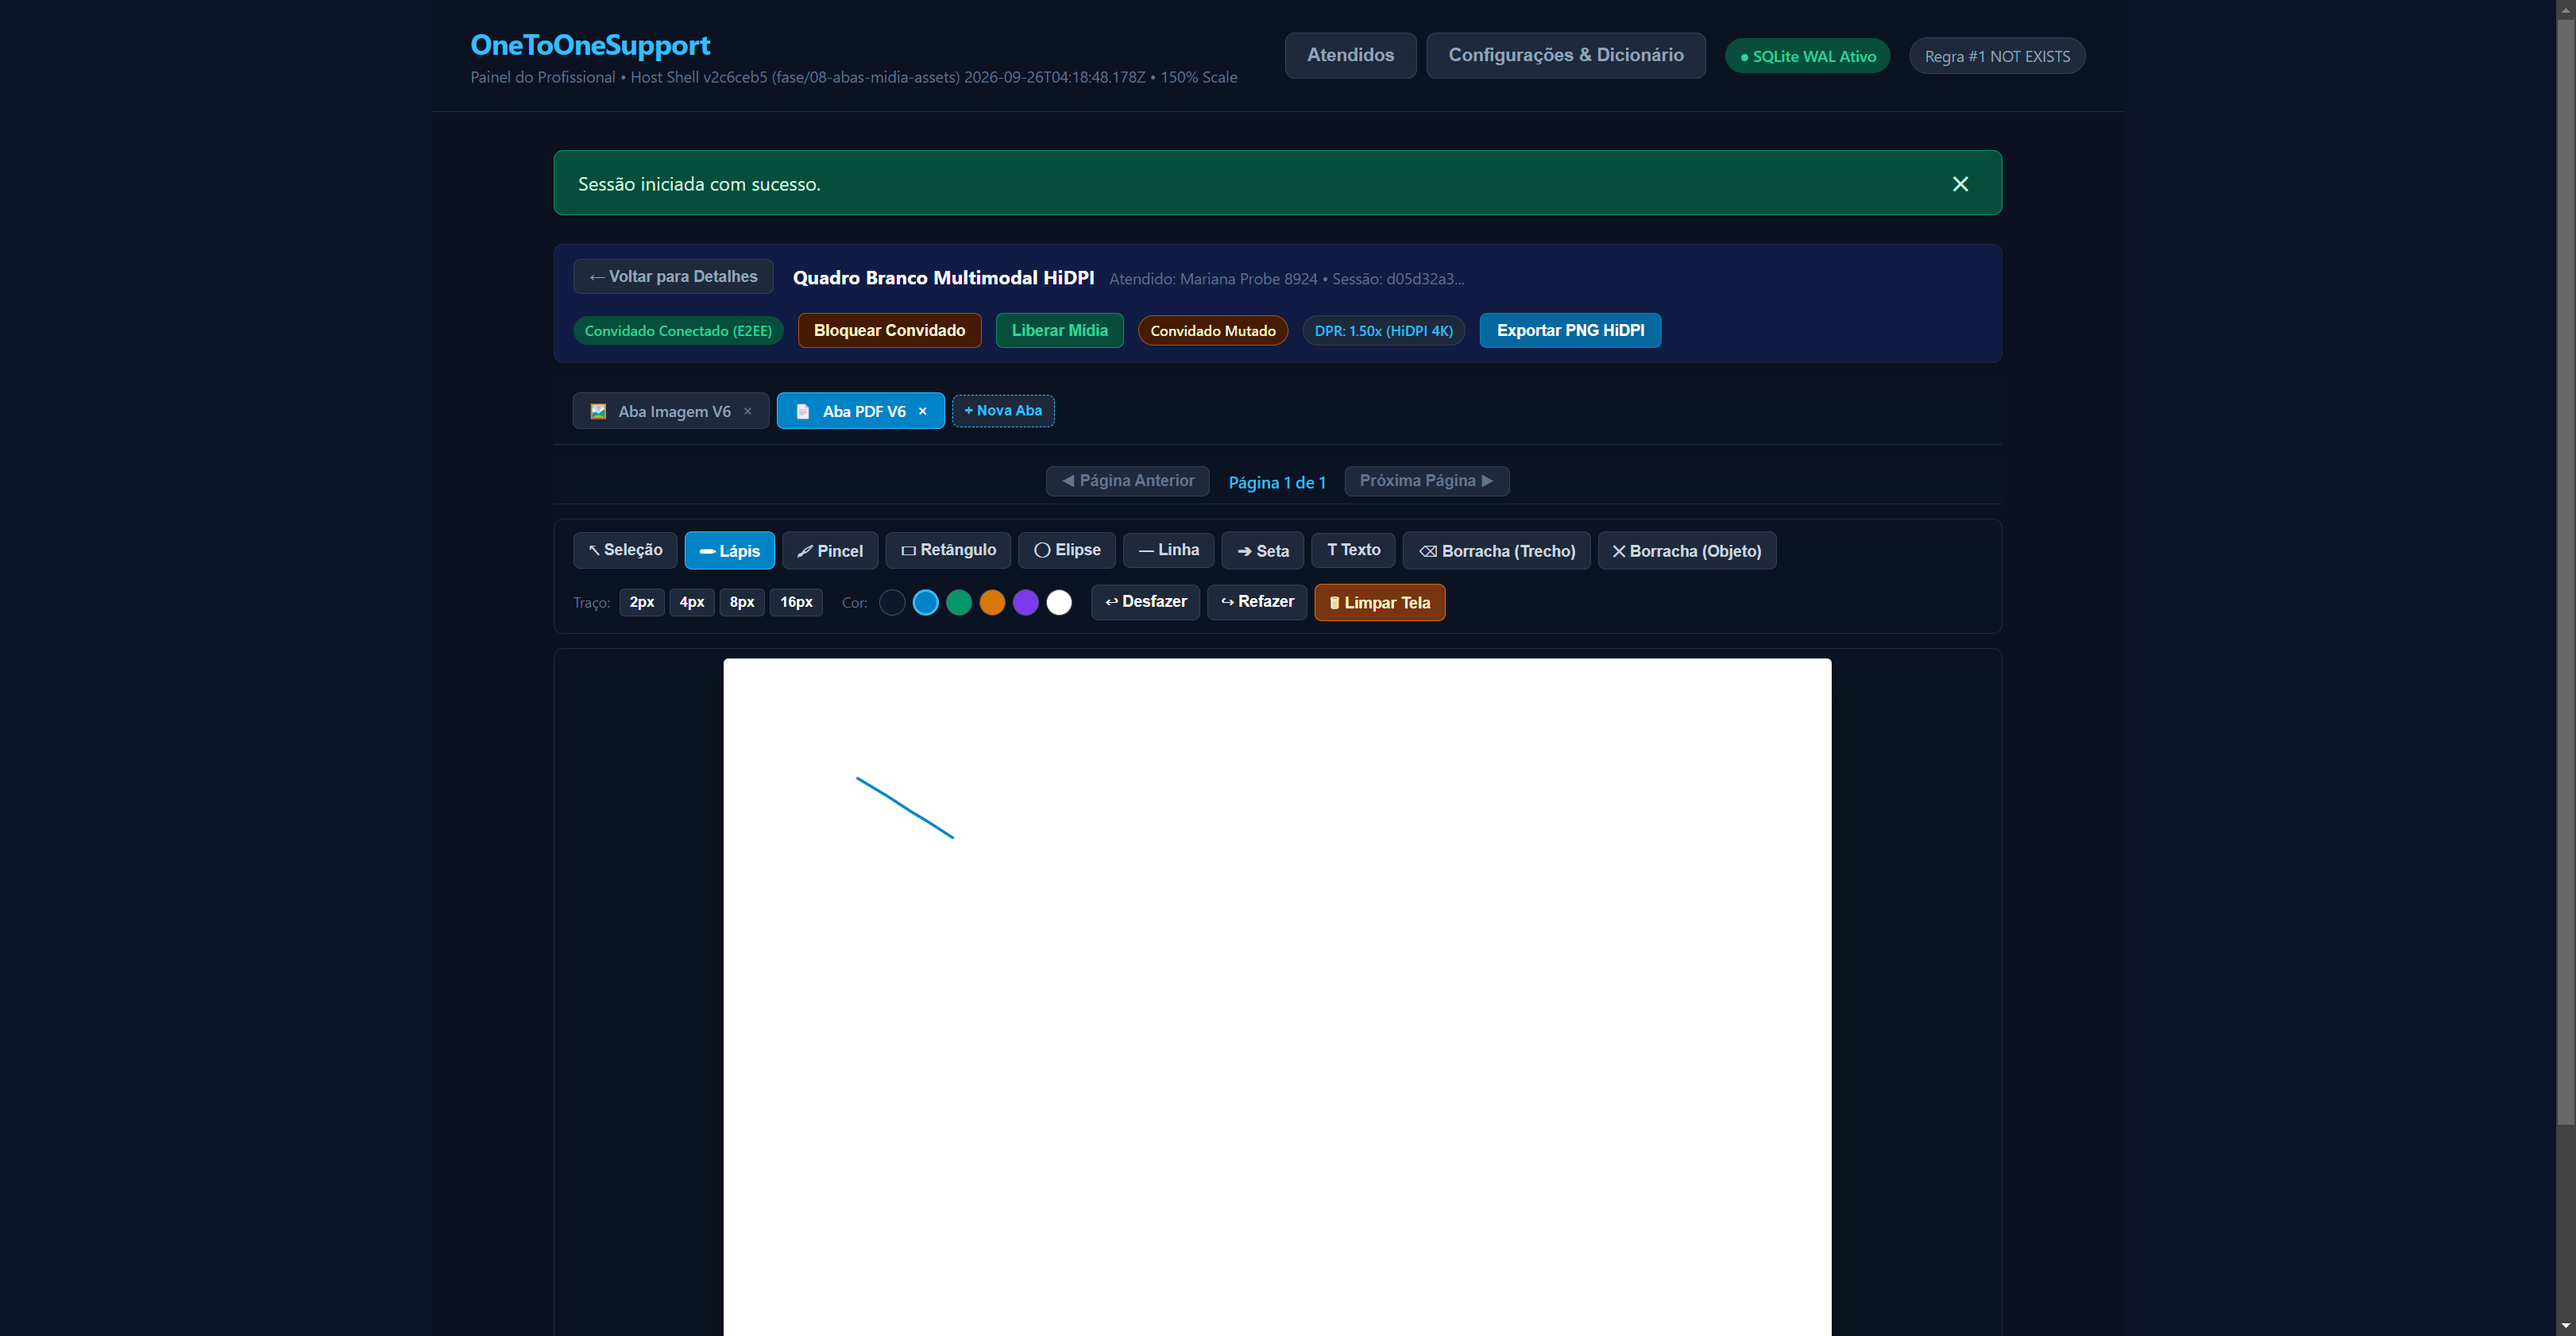
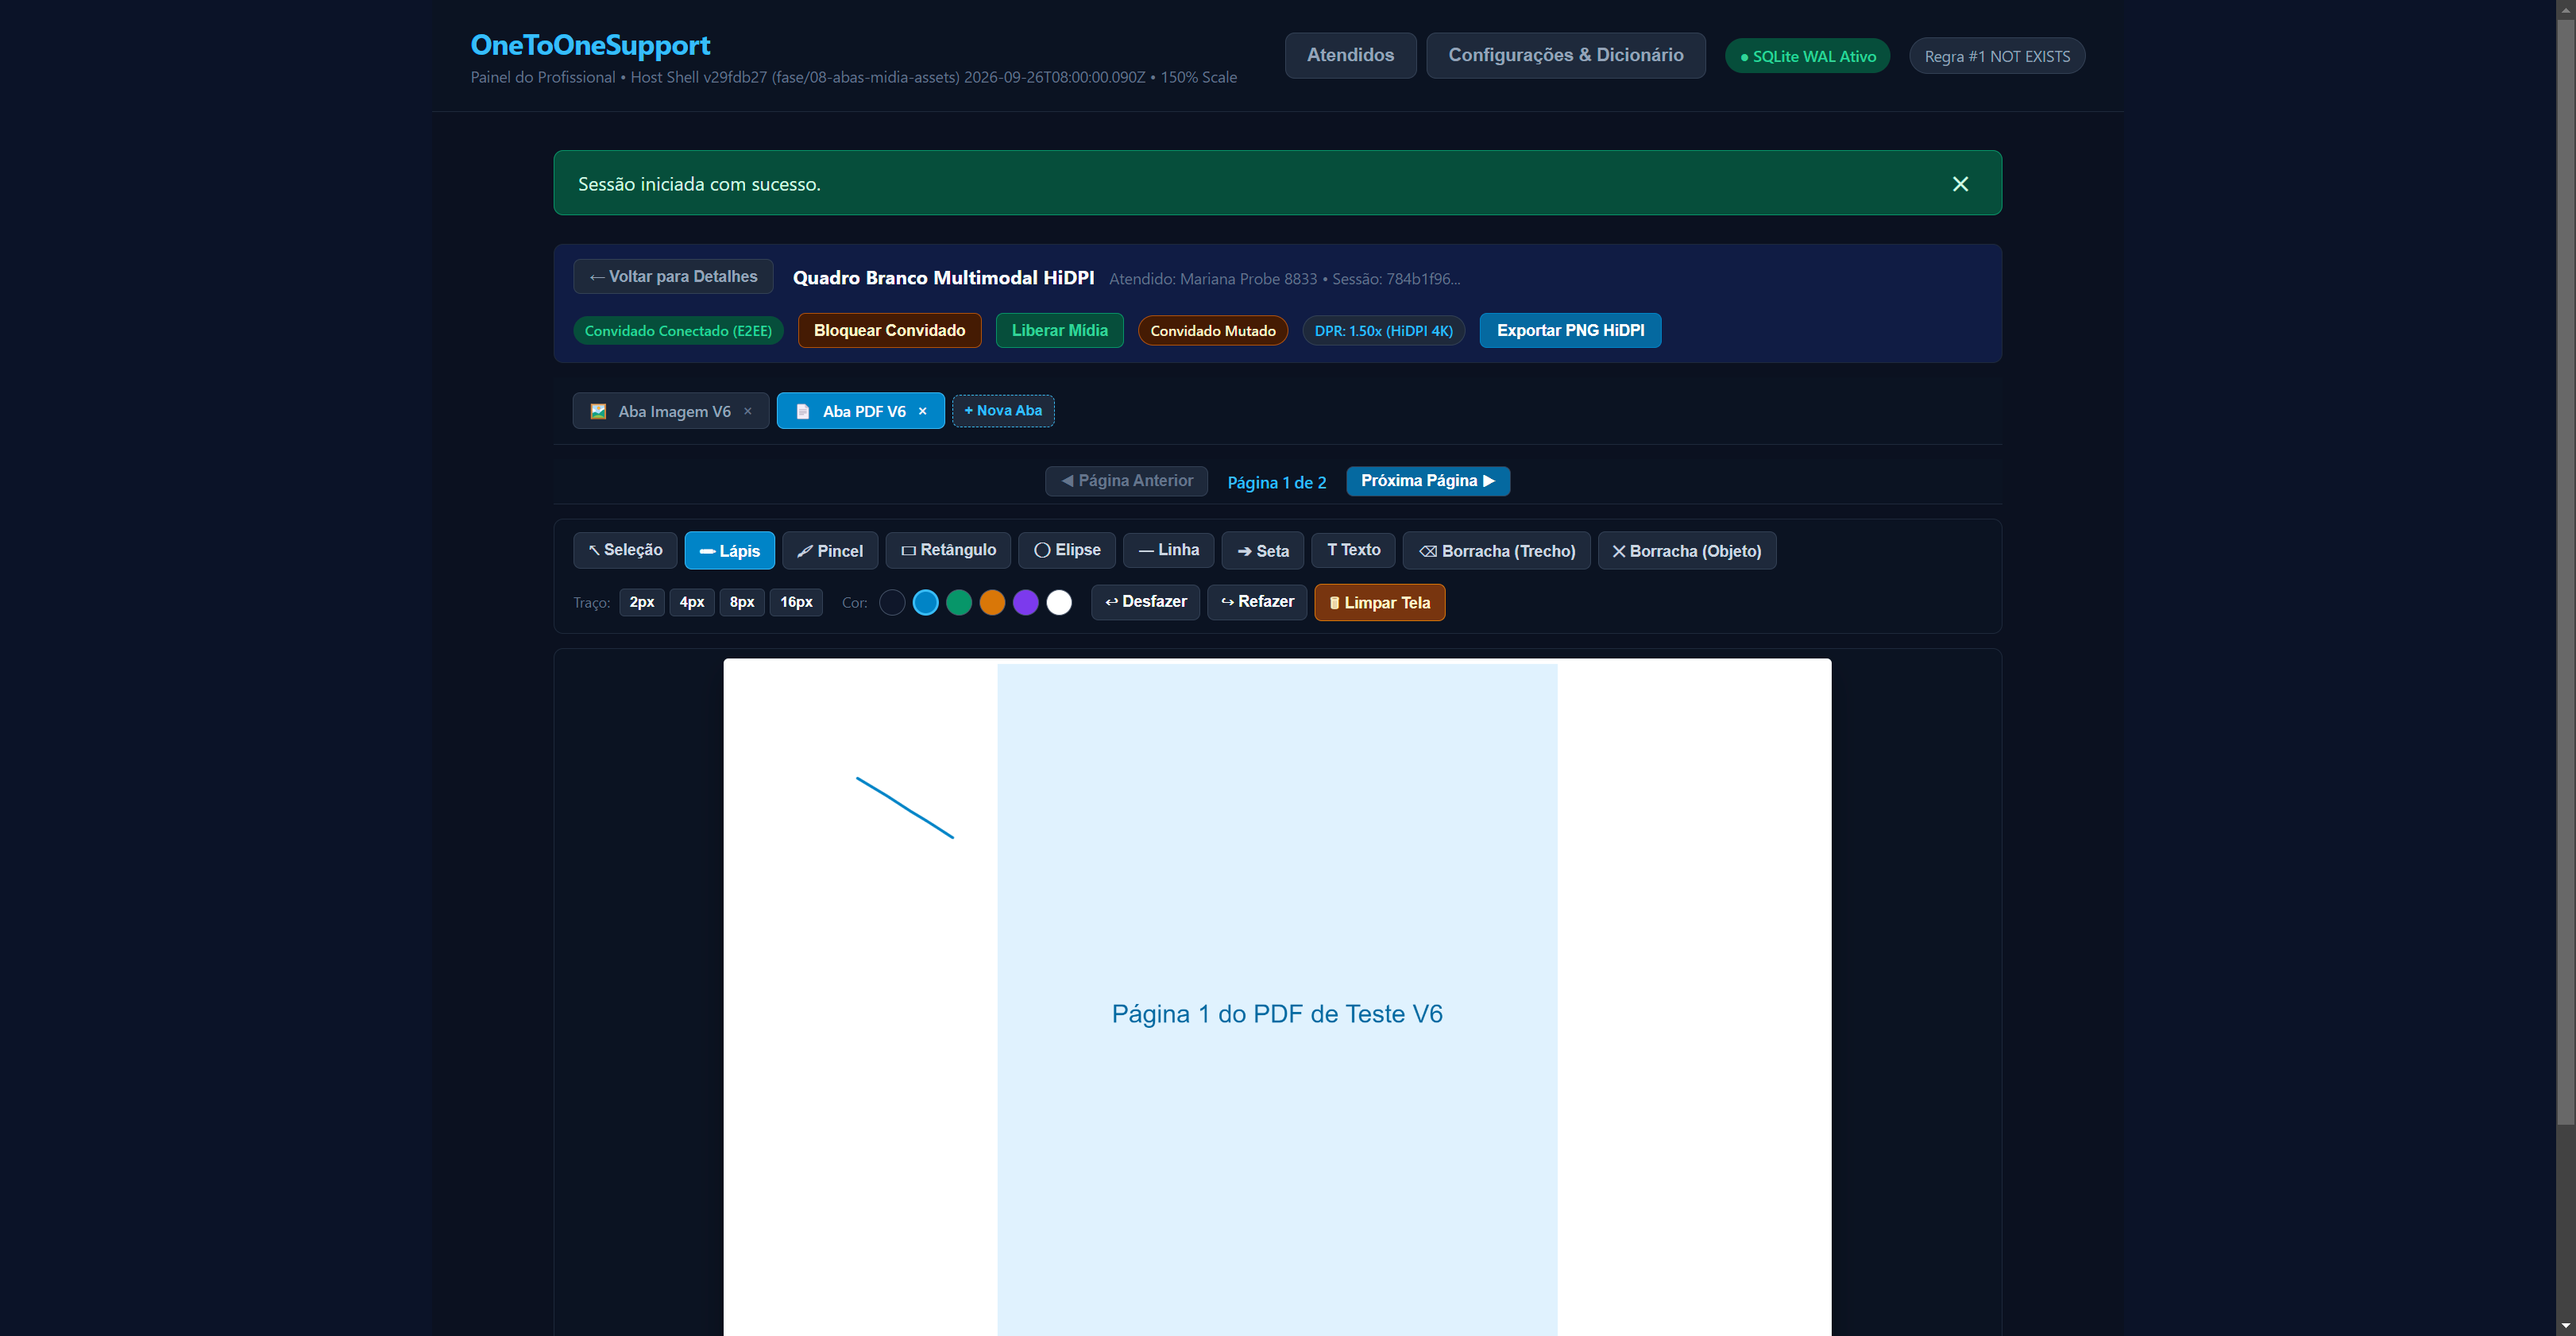
fix(midia-pdf): corrige carregamento de PDF com fake worker e CORS na rota /midia

diff --git a/electron/server/http.ts b/electron/server/http.ts
@@ -47,6 +47,17 @@ export function createExpressApp(sessionManager: SessionManager): express.Expres
 
   // 3b. Rota de serviço de mídia com Range Requests (M3)
   const handleMidia = (req: Request, res: Response) => {
+    // Permite CORS para requisições de mídia locais do Host e do Guest
+    res.setHeader('Access-Control-Allow-Origin', '*');
+    res.setHeader('Access-Control-Allow-Methods', 'GET, HEAD, OPTIONS');
+    res.setHeader('Access-Control-Allow-Headers', 'Range, Authorization, X-Media-Token');
+    res.setHeader('Access-Control-Expose-Headers', 'Accept-Ranges, Content-Range, Content-Length, Content-Type');
+
+    if (req.method === 'OPTIONS') {
+      res.status(204).end();
+      return;
+    }
+
     if (req.method !== 'GET' && req.method !== 'HEAD') {
       res.status(405).send('Method Not Allowed');
       return;

diff --git a/src/shared/pdf/pdf-loader.ts b/src/shared/pdf/pdf-loader.ts
@@ -1,8 +1,10 @@
 import * as pdfjsLib from 'pdfjs-dist/legacy/build/pdf.mjs';
+// @ts-ignore
+import * as pdfWorker from 'pdfjs-dist/legacy/build/pdf.worker.mjs';
 
-// Configura o worker se fornecido ou opera com fake worker seguro (ADR-013, ADR-014)
-if (typeof window !== 'undefined' && !pdfjsLib.GlobalWorkerOptions.workerSrc) {
-  // Deixa o legacy build usar o fake worker in-thread como fallback padrão se worker não estiver configurado
+// Configura o worker fallback em globalThis (ADR-013, ADR-014)
+if (typeof globalThis !== 'undefined') {
+  (globalThis as any).pdfjsWorker = pdfWorker;
 }
 
 export interface RenderedPdfPage {

diff --git a/src/guest/GuestRoom.tsx b/src/guest/GuestRoom.tsx
@@ -389,7 +389,7 @@ export const GuestRoom: React.FC<GuestRoomProps> = ({
           return engine.setBackgroundImage(rendered.canvas);
         })
         .catch((err) => {
-          console.warn('[GuestRoom] Erro ao renderizar página de PDF:', err);
+          console.warn('[GuestRoom] Erro ao renderizar página de PDF:', err?.message || String(err));
         });
 
       return () => {

diff --git a/src/host/pages/QuadroBrancoPage.tsx b/src/host/pages/QuadroBrancoPage.tsx
@@ -256,7 +256,7 @@ export const QuadroBrancoPage: React.FC = () => {
           return engine.setBackgroundImage(rendered.canvas);
         })
         .catch((err) => {
-          console.warn('[QuadroBranco] Erro ao carregar página de PDF:', err);
+          console.warn('[QuadroBranco] Erro ao carregar página de PDF:', err?.message || String(err));
         });
 
       return () => {
